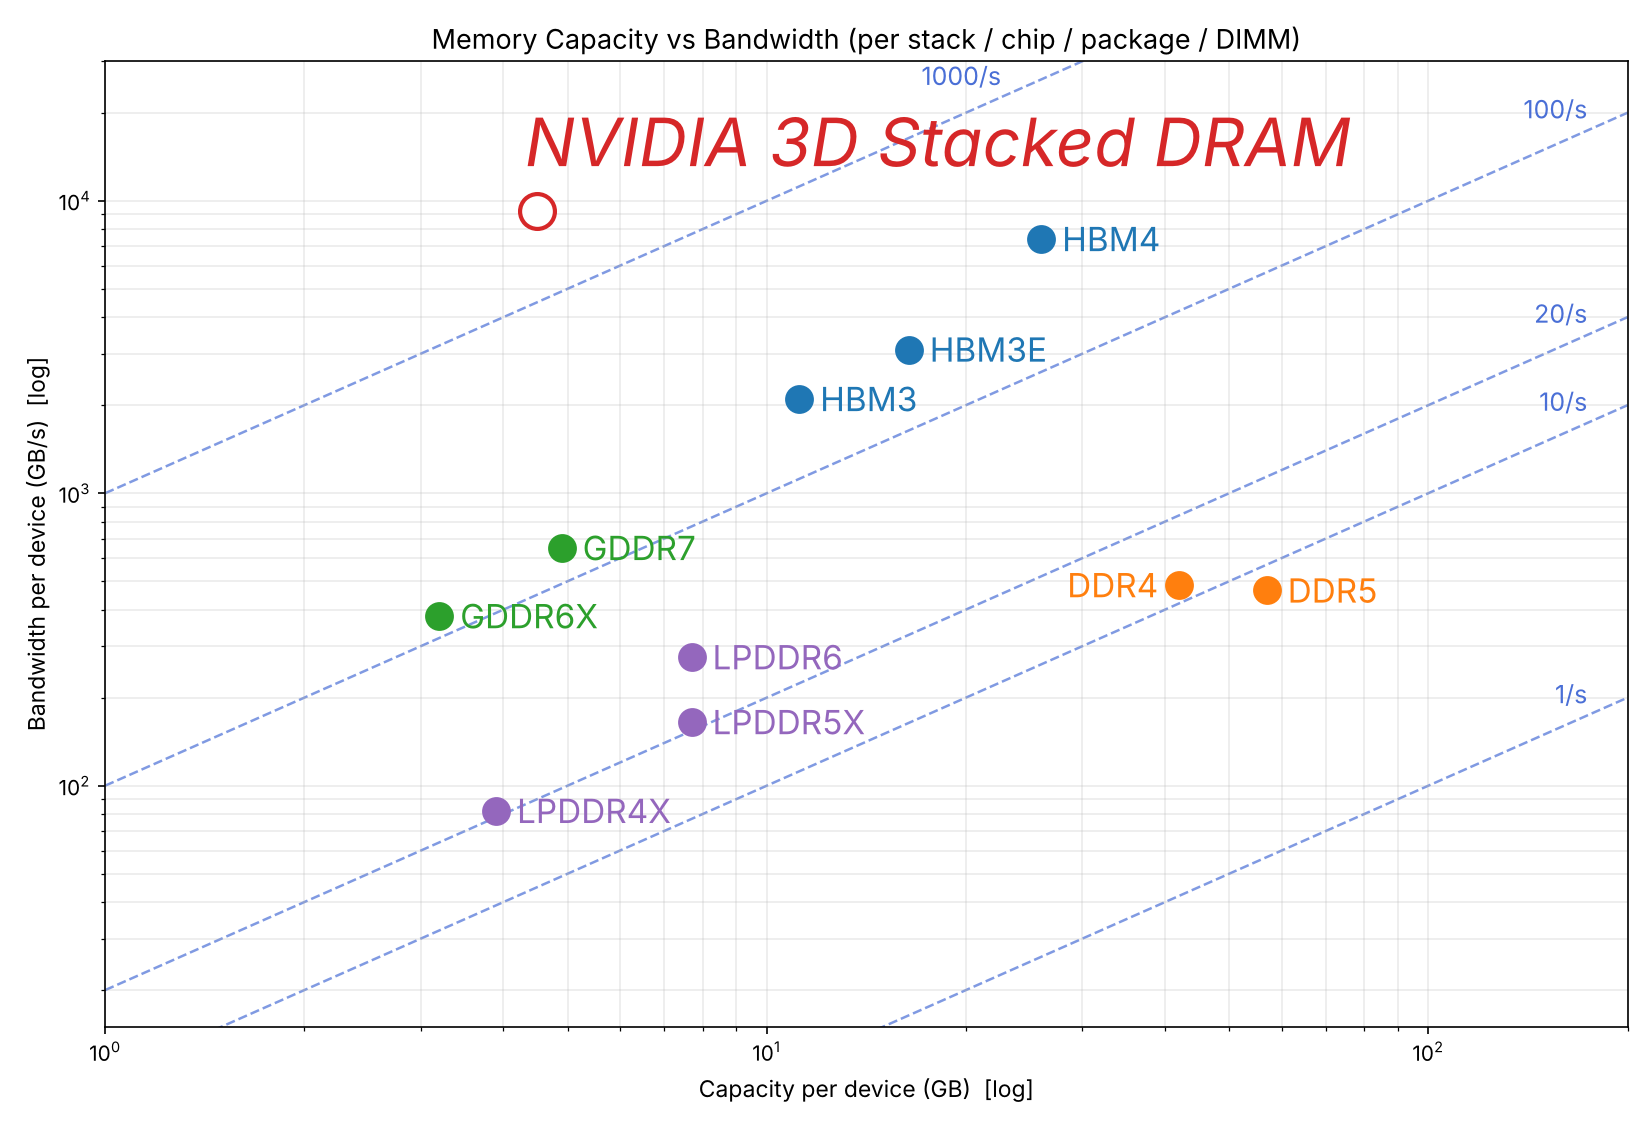
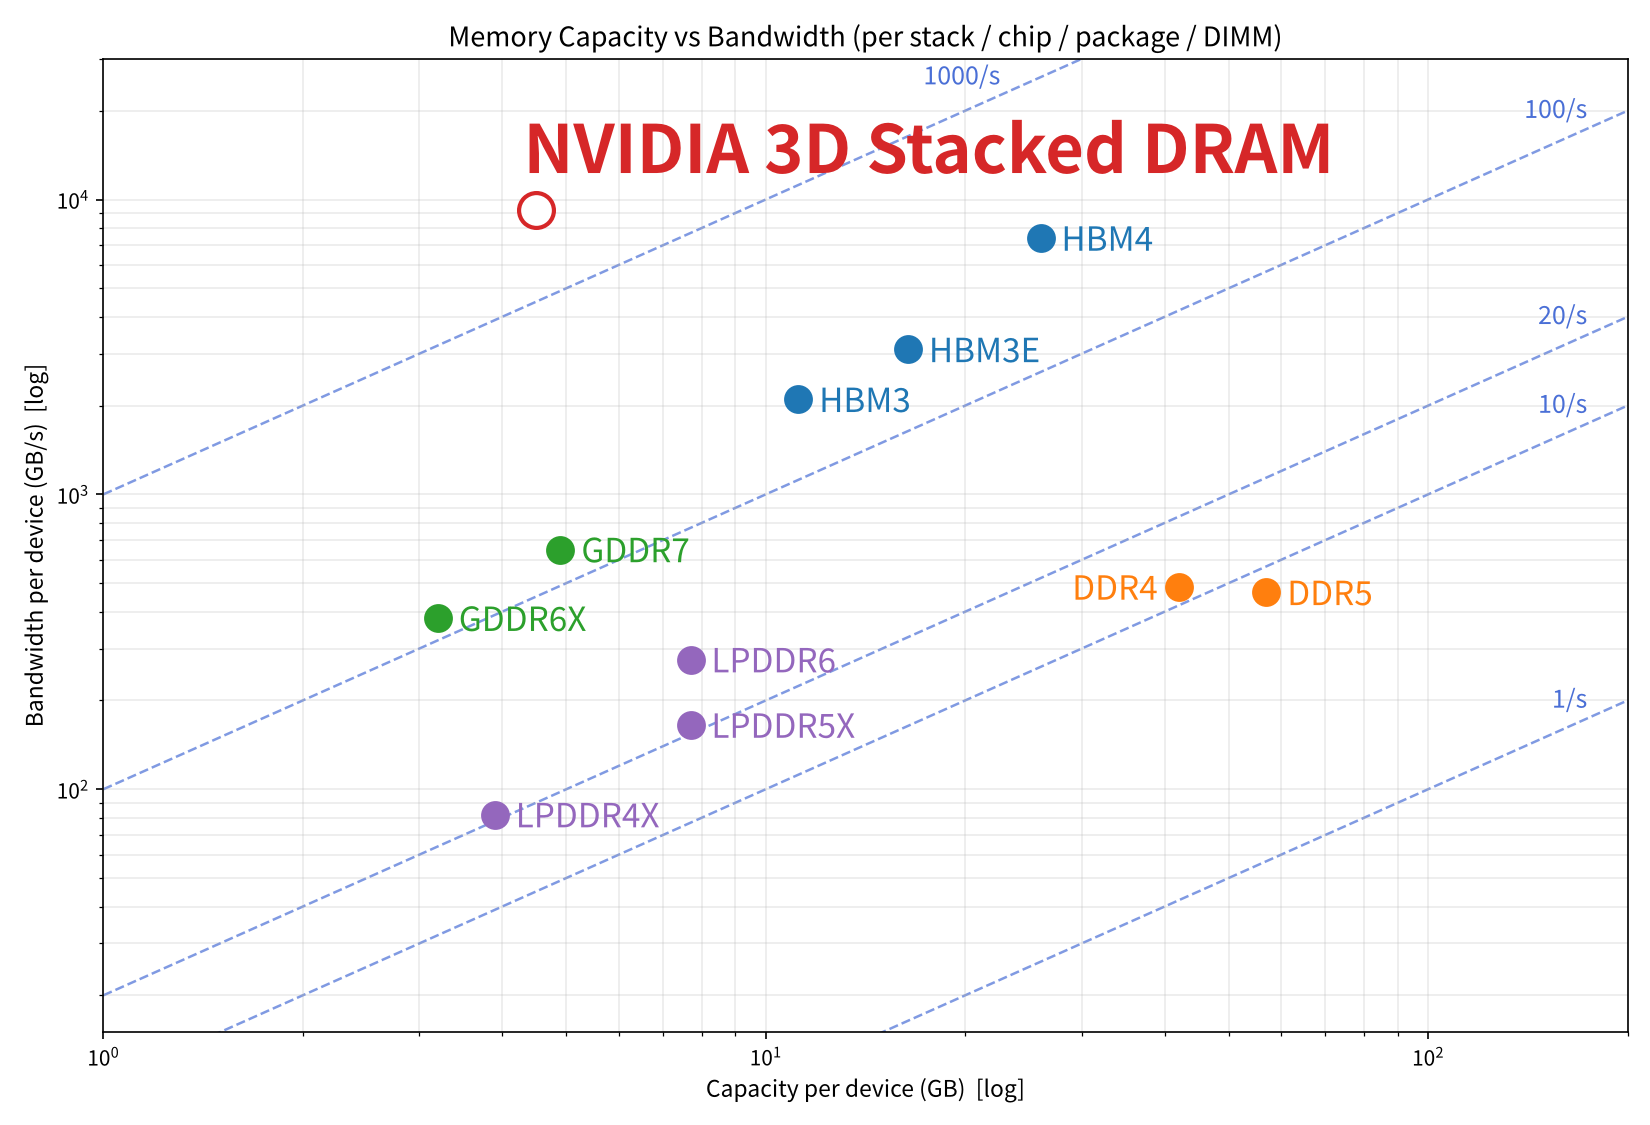
Use Noto Sans KR font, bold NVIDIA 3D DRAM label
Claude-Session: https://claude.ai/code/session_01DkF6LgnozP3R7CEQnp1asK

diff --git a/memory_chart/plot_memory.py b/memory_chart/plot_memory.py
@@ -2,6 +2,13 @@ import matplotlib
 matplotlib.use("Agg")
 import matplotlib.pyplot as plt
 
+# Font: Noto Sans KR (provided by the Noto Sans CJK KR family on Linux: apt install fonts-noto-cjk)
+plt.rcParams["font.family"] = ["Noto Sans KR", "Noto Sans CJK KR", "sans-serif"]
+plt.rcParams["mathtext.fontset"] = "custom"
+plt.rcParams["mathtext.rm"] = FONT
+plt.rcParams["mathtext.rm"] = "Noto Sans CJK KR"
+plt.rcParams["axes.unicode_minus"] = False
+
 # (name, capacity GB, bandwidth GB/s, unit/basis, color, estimated?)
 # NOTE: point positions were placed manually per user's sketch (not raw spec values)
 # Values were originally per single device: HBM = 1 stack, GDDR = 1 chip, LPDDR = 1 package, DDR = 1 DIMM
@@ -29,7 +36,7 @@ for name, cap, bw, unit, color, est in data:
                    "DDR4": ((-10, 0), "right", "center")}.get(label, ((10, 0), "left", "center"))
     ax.annotate(label, (cap, bw), textcoords="offset points",
                 xytext=off, ha=ha, fontsize=32 if est else 16, color=color, va=va,
-                fontstyle="italic" if est else "normal")
+                fontweight="bold" if est else "normal")
 
 import numpy as np
 xs = np.array([1, 200])
